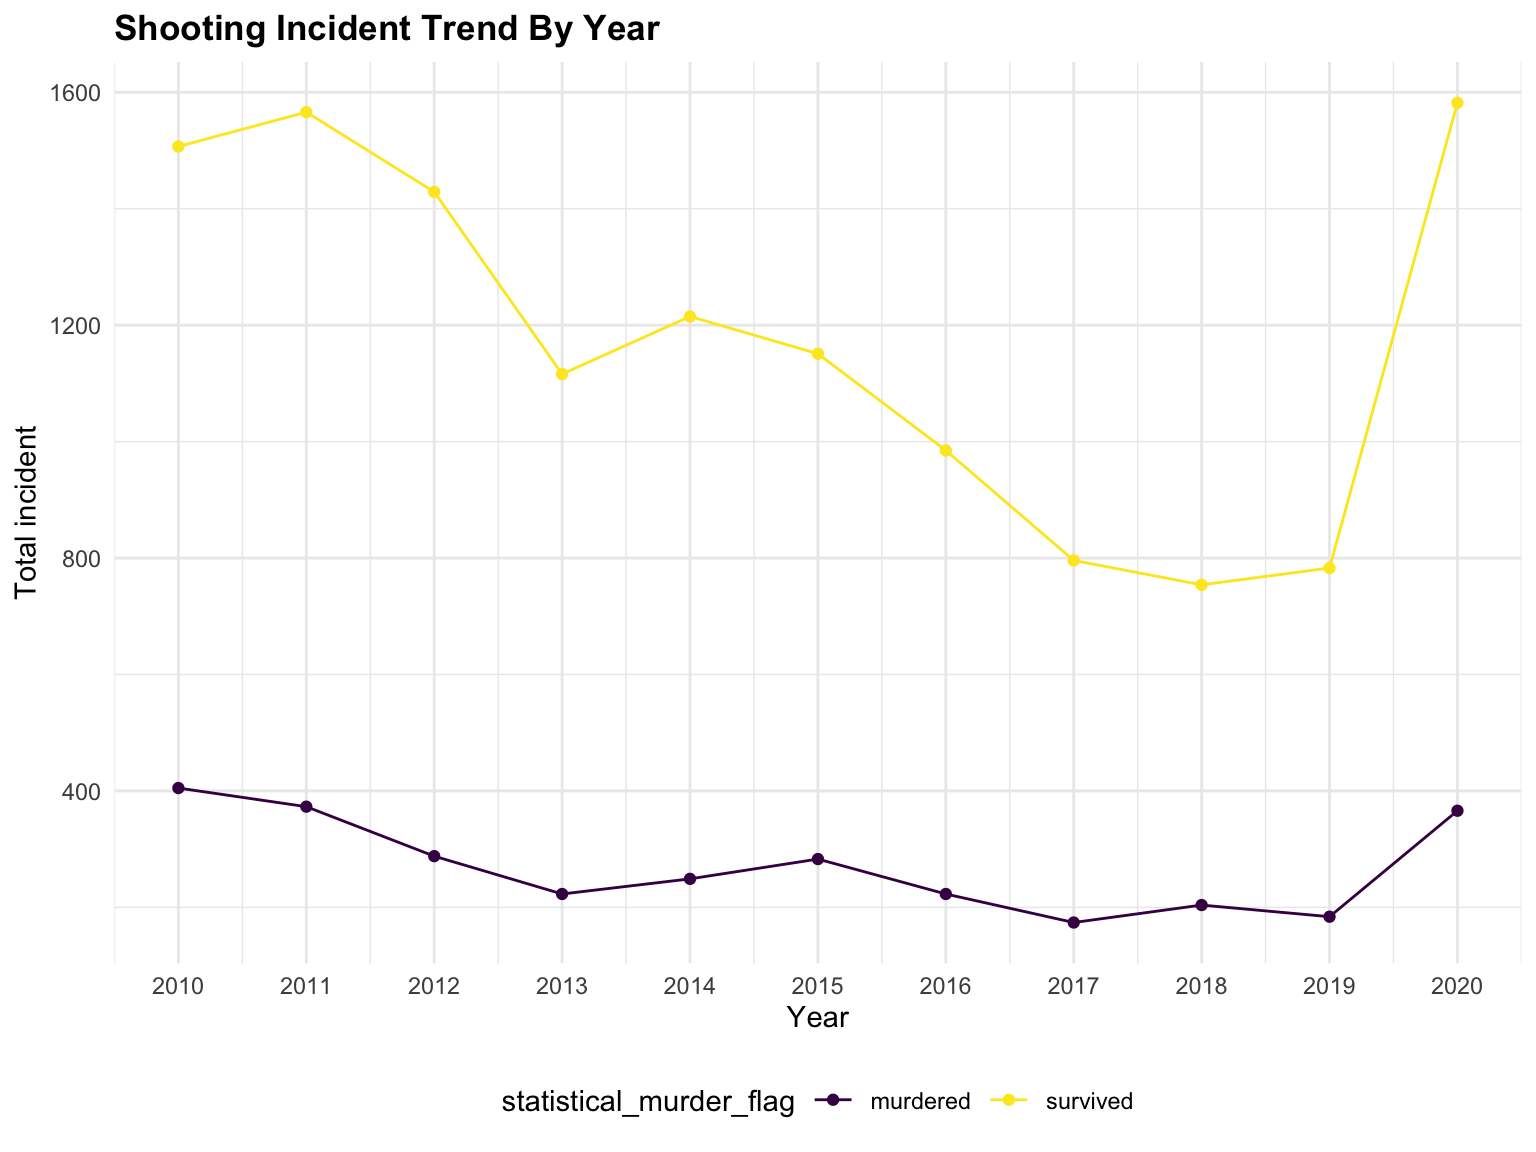
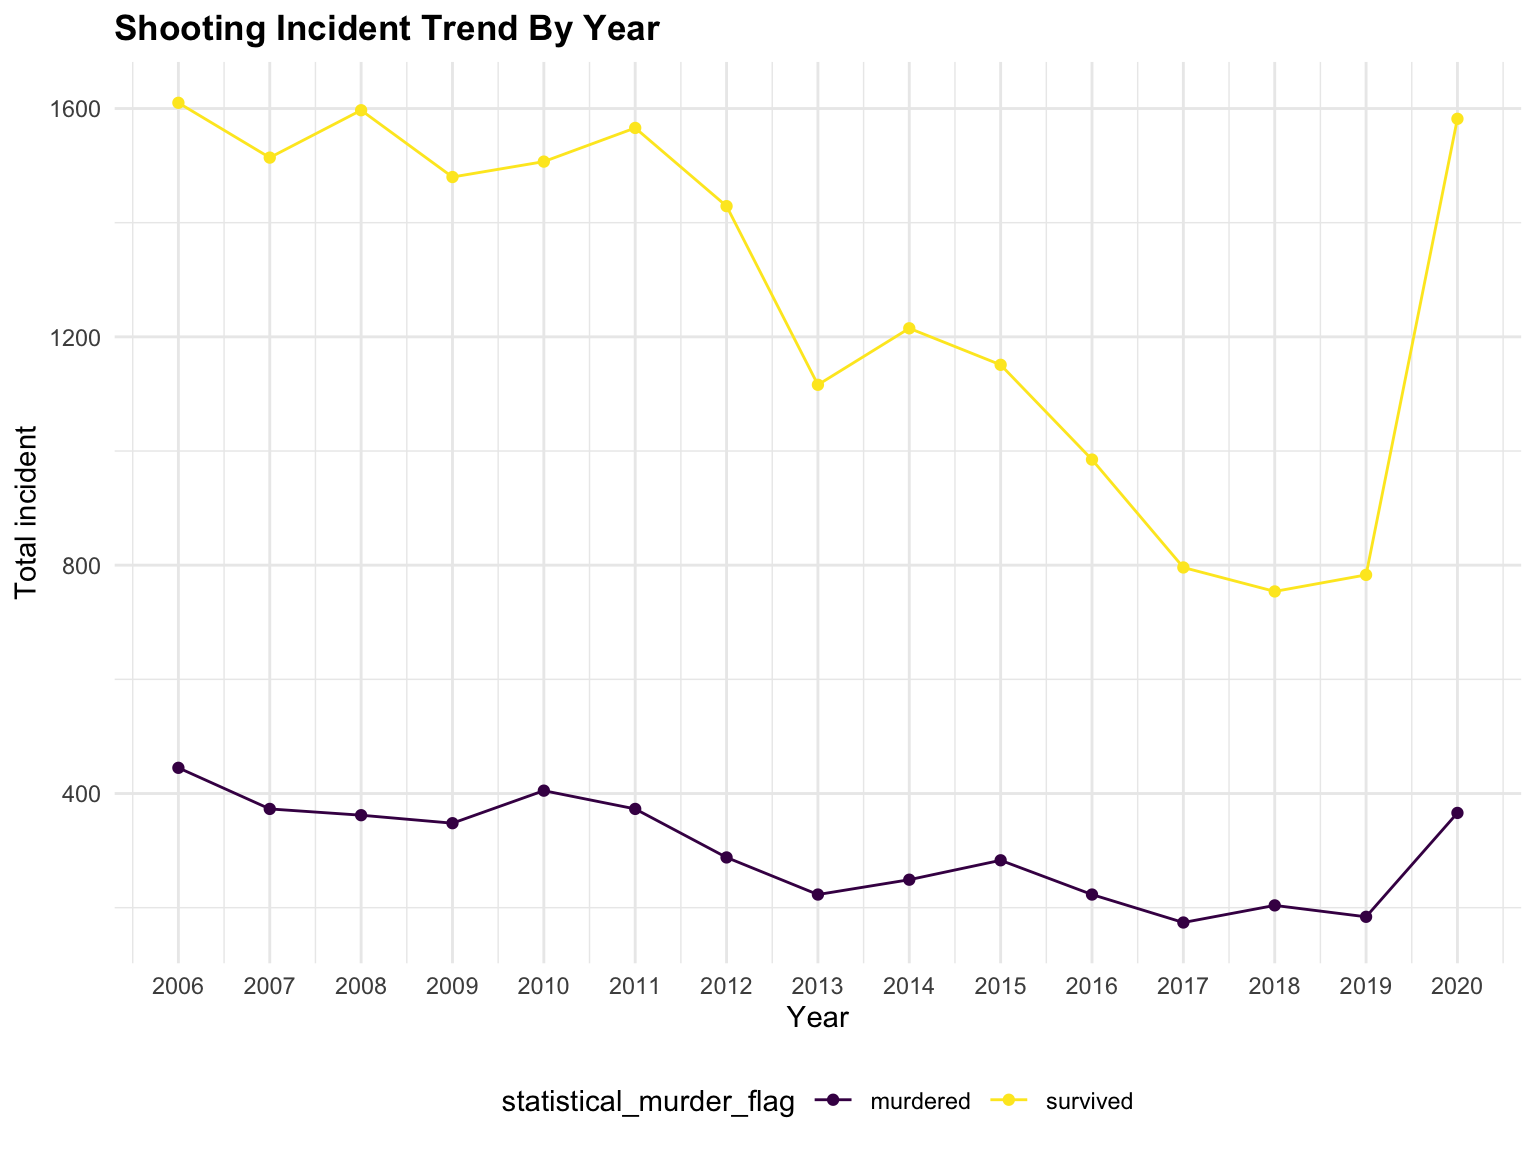
add analysis to the graph

diff --git a/analysis.html b/analysis.html
@@ -366,115 +366,37 @@ div.tocify {
 </div>
 
 
-<div id="trend" class="section level2">
-<h2>Trend</h2>
-<div id="total-shooting-incident-trends-by-year" class="section level3">
-<h3>2010-2020 total shooting incident trends by year</h3>
-<pre class="r"><code>year_plot = 
-  data_hist %&gt;% 
-  filter(year &gt;= 2010 ) %&gt;% 
-  group_by(year, statistical_murder_flag) %&gt;%
-  summarise(n = n()) %&gt;% 
-
-  ggplot(aes(x = year, y = n, color = statistical_murder_flag))  + scale_x_continuous(breaks = seq(2010, 2020, by = 1)) +
-  geom_point() + geom_line() +
-  labs(x = &quot;Year&quot;,
-       y = &quot;Total incident&quot;,
-       title = &quot;Shooting Incident Trend By Year&quot;
-       )</code></pre>
-<pre><code>## `summarise()` has grouped output by &#39;year&#39;. You can override using the `.groups` argument.</code></pre>
-<pre class="r"><code>year_plot</code></pre>
-<p><img src="analysis_files/figure-html/unnamed-chunk-4-1.png" width="90%" /></p>
-<p>##2010-2020 total shooting incident by victim’s race</p>
-<pre class="r"><code>vic_race_plot = 
-  data_hist %&gt;%
-  filter(year &gt;= 2010,
-         vic_race %in% c(&quot;black&quot;,&quot;white hispanic&quot;,&quot;black hispanic&quot;,&quot;white&quot;,&quot;asian / pacific islander&quot;,&quot;white&quot;)) %&gt;% 
-  group_by(year, vic_race) %&gt;%
-  summarise(n = n()) %&gt;%
-  ggplot(aes(x = year, y = n, fill= vic_race) ) + 
-  geom_bar(width = 0.8, stat = &quot;identity&quot;) +
-  labs(x = &quot;Year&quot;,
-       y = &quot;Total incident&quot;,
-       title = &quot;Shooting Incident Trend By Victim’s Race&quot;)</code></pre>
-<pre><code>## `summarise()` has grouped output by &#39;year&#39;. You can override using the `.groups` argument.</code></pre>
-<pre class="r"><code>vic_race_plot</code></pre>
+<div id="overall-glance" class="section level3">
+<h3>Overall glance</h3>
+</div>
+<div id="total-shooting-incident-trends-by-murdered-or-survived-from-2006-to-2020" class="section level2">
+<h2>2010-2020 total shooting incident trends by murdered or survived from 2006 to 2020</h2>
+<p>At the very beginning, let’s have a overall glance at the shooting incidence and focusing on the most serious issue, which is the amount of death on shooting incident from 2006 to 2020 in New York City. <img src="analysis_files/figure-html/unnamed-chunk-4-1.png" width="90%" /></p>
+<p>Murdered shooting incidence is much less than survived shooting incidence. From 2006 to 2011, the survived shooting incidence was steadily fluctuate around 1500 and murdered shooting incidence was steadily fluctuate around 400. Both types of the shooting incidence were decreasing gradually from 2011 to 2019. However, there is a huge dramatically increase in 2020 for both types of the shooting incidence.</p>
+<p>Now, let’s take a closer look on more details about the victims.</p>
+<div id="victim" class="section level3">
+<h3>Victim</h3>
+</div>
+</div>
+<div id="total-shooting-incident-by-victims-race" class="section level2">
+<h2>2010-2020 total shooting incident by victim’s race</h2>
 <p><img src="analysis_files/figure-html/unnamed-chunk-5-1.png" width="90%" /></p>
-<p>the majority of victim are <strong>black</strong>. In 2010, 2011 and 2014, white people are the second highest number of victim. the rest of years, white hispanic are the second most in victim</p>
+<p>The majority of victim are <strong>black</strong>. In 2010, 2011 and 2014, white people are the second highest number of victim. the rest of years, white hispanic are the second most in victim.</p>
 </div>
-</div>
-<div id="victim" class="section level2">
-<h2>Victim</h2>
-<div id="total-shooting-incident-by-victims-sex" class="section level3">
-<h3>2010-2020 total shooting incident by victim’s sex</h3>
-<pre class="r"><code>vic_sex_plot = 
-  data_hist %&gt;% 
-  filter(year &gt;= 2010,
-         vic_sex != &quot;unknown&quot;) %&gt;% 
-  group_by(year, vic_sex) %&gt;%
-  summarise(n = n()) %&gt;% 
-  ggplot(aes(x = year, y = n, fill = vic_sex)) + 
-  geom_bar(width = 0.8, stat = &quot;identity&quot;) +
-  labs(x = &quot;Year&quot;,
-       y = &quot;Total incident&quot;,
-       title = &quot;Shooting Incident Trend By Victim’s Sex&quot;)</code></pre>
-<pre><code>## `summarise()` has grouped output by &#39;year&#39;. You can override using the `.groups` argument.</code></pre>
-<pre class="r"><code>vic_sex_plot</code></pre>
+<div id="total-shooting-incident-by-victims-sex" class="section level2">
+<h2>2010-2020 total shooting incident by victim’s sex</h2>
 <p><img src="analysis_files/figure-html/unnamed-chunk-6-1.png" width="90%" /></p>
+<p>Male victims are the majority and female victims have a very small proportion among the total victims in nyc across 2006 to 2020.</p>
 </div>
-<div id="totalshooting-incident-by-victims-age-group" class="section level3">
-<h3>2010-2020 totalshooting incident by victim’s age group</h3>
-<pre class="r"><code>vic_age_plot = 
-  data_hist %&gt;% 
-  filter(year &gt;= 2010,
-         vic_age_group != &quot;NA&quot;,
-         vic_age_group != &quot;UNKNOWN&quot;
-         ) %&gt;% 
-  group_by(vic_age_group, boro) %&gt;%
-  summarise(n = n()) %&gt;% 
-
-  ggplot(aes(x = boro, y = n, fill = vic_age_group)) + 
-  geom_bar(width = 0.8, stat = &quot;identity&quot;)+
-
-  labs(x = &quot;Borough&quot;,
-       y = &quot;Total incident&quot;,
-       title = &quot;Shooting Incident Trend By Victim’s age&quot;
-       )</code></pre>
-<pre><code>## `summarise()` has grouped output by &#39;vic_age_group&#39;. You can override using the `.groups` argument.</code></pre>
-<pre class="r"><code>vic_age_plot</code></pre>
-<p><img src="analysis_files/figure-html/unnamed-chunk-7-1.png" width="90%" /> victims age group, 2010-2015 age 18-25 are the major victim but less in 2016-2018</p>
-<p>##2010-2020 total shooting incident by jurisdiction_code</p>
-<pre class="r"><code>jurisdiction_code_plot=
-  data_hist %&gt;%
-  filter(year &gt; 2010,
-         vic_age_group != &quot;NA&quot;,
-         vic_age_group != &quot;UNKNOWN&quot;) %&gt;% 
-  group_by(jurisdiction_code, vic_age_group) %&gt;%
-  summarise(n = n()) %&gt;% 
-  ggplot(aes(x = vic_age_group, y = n, fill = jurisdiction_code)) + 
-  geom_bar(width = 0.8, stat = &quot;identity&quot;) +
-  labs(x = &quot;Age group of victims&quot;,
-       y = &quot;Total incident&quot;,
-       title = &quot;Shooting Incident By Location Of The Incident&quot;
-       )</code></pre>
-<pre><code>## `summarise()` has grouped output by &#39;jurisdiction_code&#39;. You can override using the `.groups` argument.</code></pre>
-<pre class="r"><code>jurisdiction_code_plot</code></pre>
+<div id="totalshooting-incident-by-victims-age-group" class="section level2">
+<h2>2010-2020 totalshooting incident by victim’s age group</h2>
+<p><img src="analysis_files/figure-html/unnamed-chunk-7-1.png" width="90%" /></p>
+<p>The proportion of age group under 18 and 45-64 have been keeping consistently low across 2006 to 2020, and there are nearly zero incidence for age group over 65. From 2006-2014, age group 18-25 and age group 25-44 have the highest proportion among the shooting incident. But since 2015, the amount of group 18-25 victims have been decreasing rapidly and become the second highest group among the total shooting incident which was referring to educational policy from 2015.</p>
+</div>
+<div id="total-shooting-incident-by-jurisdiction_code" class="section level2">
+<h2>2010-2020 total shooting incident by jurisdiction_code</h2>
 <p><img src="analysis_files/figure-html/unnamed-chunk-8-1.png" width="90%" /></p>
-<p>##2010-2020 total shooting incident by hour in a day</p>
-<pre class="r"><code>incident_by_hour =
-  data_hist %&gt;%
-  filter(year &gt;= 2010) %&gt;% 
-  group_by(hour) %&gt;%
-  mutate(n = n()) %&gt;% 
-  ggplot(aes(x = hour, group = n)) + 
-  geom_bar(position = &quot;dodge&quot;) +
-  facet_grid(rows = vars(boro)) +
-  labs(x = &quot;Hour&quot;,
-       y = &quot;Total incident&quot;,
-       title = &quot;Shooting Incident Trend By Hour In Day&quot;
-       )
-  
-incident_by_hour</code></pre>
+<p>##2010-2020 total shooting incident by hour in a day for each borough</p>
 <p><img src="analysis_files/figure-html/unnamed-chunk-9-1.png" width="90%" /></p>
 <p>Most shooting incident happened at <strong>patrol</strong>, then is house.</p>
 <p><strong>brooklyn</strong> has most shooting incident, then is bronx. Staten island has least shooting incident since it dose not have much population</p>
@@ -490,7 +412,6 @@ incident_by_hour</code></pre>
 education_plot</code></pre>
 <p><img src="analysis_files/figure-html/unnamed-chunk-10-1.png" width="90%" /></p>
 <p>overall, all borough show increase. in 2015, brooklyn that has most shooting incident boro has a notability increase slope.</p>
-</div>
 </div>
 
 
